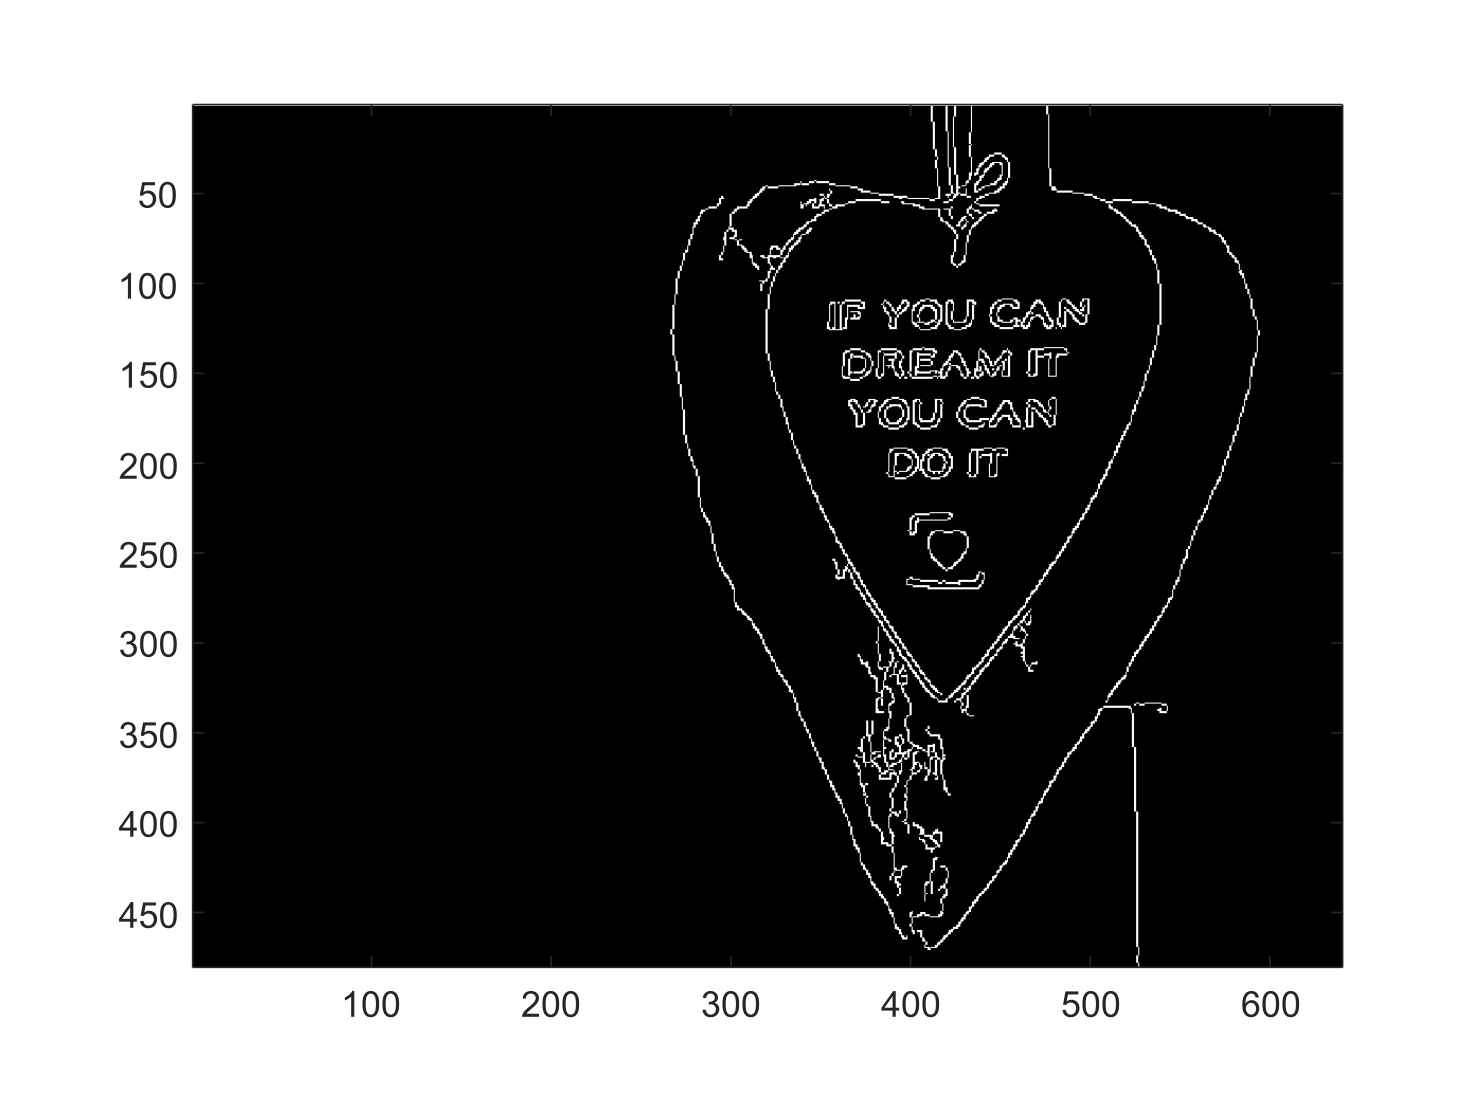
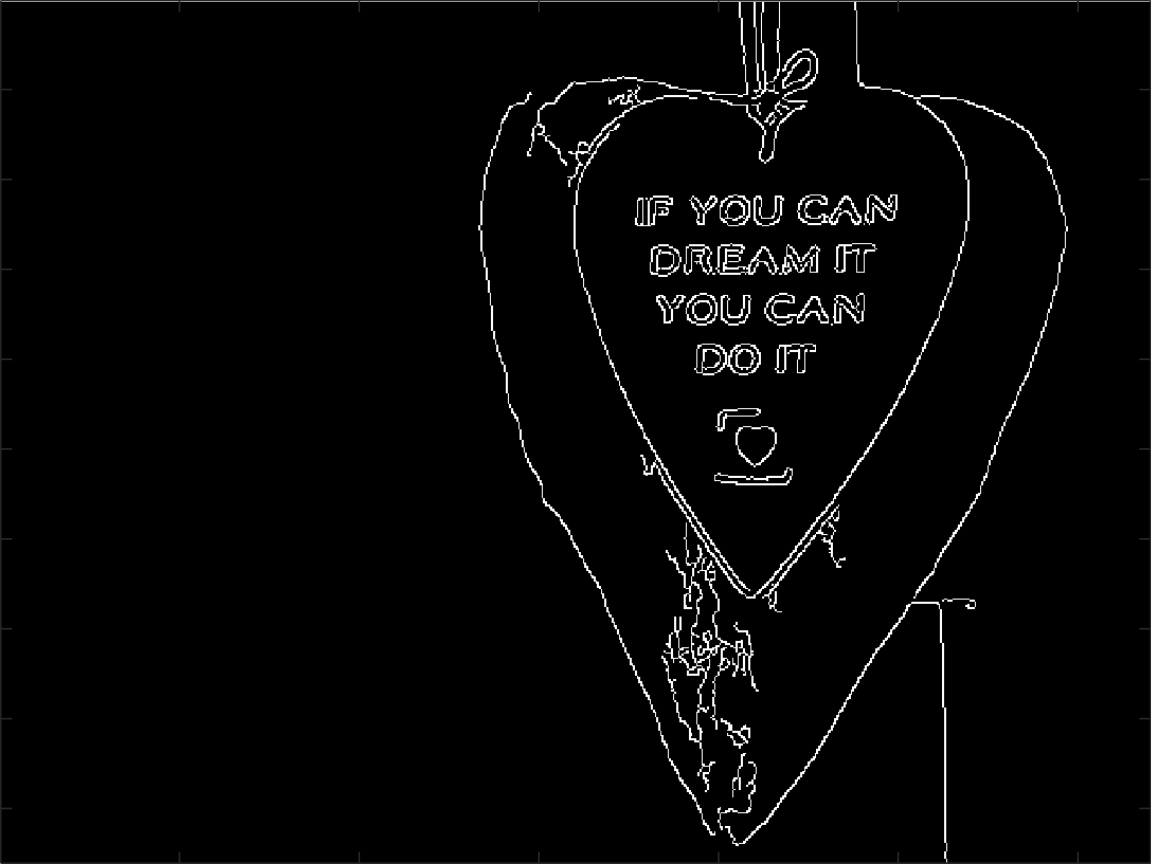
Ritagliato immagini bordi. Modifiche minori al main
Corregge la compatibilità con Octave e ritaglia le immagini dei bordi

diff --git a/Canny.m b/Canny.m
@@ -14,8 +14,14 @@ coeff_2 = 1/5;  % Rapporto tra soglia_bassa e soglia_alta
 
 %%
 
-I = imread('Fig_01.jpg');
-% A questo punto I può essere:
+I = imread(fullfile('Immagini_Testing', 'Fig_03.jpg'));
+
+% In ambiente MATLAB andava bene anche solo:
+    % I = imread('Fig_01.jpg');
+% L'instruzione sopra con comando "fullfile" serve unicamente in ambiente
+% GNU Octave per la piena compatibilità con "addpath('Immagini_Testing')"
+
+% In questo punto I può essere:
 % 1) o una matrice MxN di elementi unsigned int ad 8 bit dove un elemento 
 %    di I, diciamo I(i,j) è un intero da 0 a 255. E' il caso delle immagini
 %    in scala di grigi.
@@ -74,9 +80,9 @@ I_bordi = gestisci_bordi_deboli(I_bordi, vett_bordi_forti);
 
 %%
 % stampo l'immagine originaria:
-figure(1), image(I_orig), colormap gray(256), axis image; 
+figure(1), image(I_orig), colormap(gray(256)), axis image; 
 % Il comando axis fa si che l'immagine mantenga le sue proporzioni originali
-% Il comando colormap gray(256) invece:
+% Il comando colormap(gray(256)) invece:
 % - se l'immagine è in RGB (cioè a colori), e quindi di dimensione MxNx3,
 %   allora il comando viene ignorato
 % - se invece I è invece una matrice MxN, dice di stampare in scala di 
@@ -86,5 +92,5 @@ figure(1), image(I_orig), colormap gray(256), axis image;
 
 %%
 % stampo i bordi:
-figure(2), image(I_bordi), colormap gray(256), axis image; 
+figure(2), image(I_bordi), colormap(gray(256)), axis image; 
 
